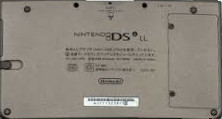
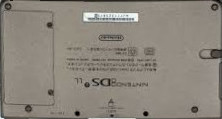
new cubed with correct orientations

diff --git a/styles/CubedStyle.css b/styles/CubedStyle.css
@@ -1,0 +1,119 @@
+.center{
+        top: 50%;
+        left: 50%;
+        transform: translate(-50%, -50%);
+}
+
+.threeD{
+        margin-top: 100px;
+        margin-left: 100px;
+        transform-style: preserve-3d;
+        transform: perspective(100cm);
+}
+
+.threeD div{
+        transform-style: preserve-3d;
+        background-image: url("../assets/images/debug.png");
+        background-size: 100%;
+}
+
+/*front*/
+.cubed{
+        background-size: 100% 100%;
+        height:var(--height) !important;
+        width: var(--width) !important;
+        background-image: var(--img);
+        background-position: top left;
+        background-color: var(--color);
+        transform-style: preserve-3d;
+        transform: var(--startTransform) rotateX(180deg) var(--baseTransform) var(--extraTransform) !important;
+        /*(in)SANE DEFAULTS*/
+        --width: 100px;
+        --height: 100px;
+        --depth: 100px;
+        --img: none;
+        --color: #ffffff;
+        --flipY: 0deg;
+        --extraTransform: ;
+        --baseTransform: ;
+        /*
+        DEBUG
+        */
+        /*
+        position: absolute;
+        top: 50%;
+        left: 50%;
+        --startTransform: perspective(100cm) rotate3D(1, 0, 1, 45deg);
+        animation-name: debug;
+        animation-iteration-count: infinite;
+        animation-duration: 4s;
+        animation-timing-function: linear;
+        */
+}
+
+
+/* top */
+
+/* bottom */
+.cubed > div:nth-child(1){
+        position: absolute;
+        top: 0px;
+        left: 0px;
+        width: var(--width);
+        height: var(--depth);
+        --baseTransform: rotateX(-90deg) rotate(180deg) translateZ(var(--height)) translateY(calc(-1 * var(--depth)));
+        transform-origin: 50% 0% 0;
+}
+
+.cubed > div:nth-child(2){
+        position: absolute;
+        top: 0px;
+        left: 0px;
+        width: var(--width);
+        height: var(--depth);
+        --baseTransform: rotateX(90deg) translateY(calc(-1 * var(--depth)));
+        transform-origin: 50% 0% 0;
+}
+
+/* right */
+.cubed > div:nth-child(3){
+        position: absolute;
+        top: 0px;
+        left: 0px;
+        width: var(--height); 
+        height: var(--depth);
+        --baseTransform: rotateX(-90deg) rotateY(90deg) translateZ(var(--width)) rotate(180deg) translateY(-100%);
+        transform-origin: 0% 0% 0;
+}
+
+/* left */
+.cubed > div:nth-child(4){
+        position: absolute;
+        top: 0px;
+        left: 0px;
+        width: var(--height); 
+        height: var(--depth);
+        --baseTransform: rotateX(-90deg) rotateY(90deg) rotate(180deg) translateY(-100%);
+        transform-origin: 0% 0% 0;
+}
+
+/*back*/
+.cubed > div:nth-child(5){
+        position: absolute;
+        top: 0px;
+        left: 0px;
+        height:var(--height);
+        width: var(--width);
+        --baseTransform: rotateX(180deg) translateZ(calc(var(--depth)));
+}
+
+.cubed > div{
+        transform: var(--baseTransform) var(--extraTransform);
+        transform-style: preserve-3d;
+        background-image: var(--img);
+        background-color: var(--color);
+        background-size: 100% 100%;
+}
+
+
+

diff --git a/navigation/gameStyle.css b/navigation/gameStyle.css
@@ -9,15 +9,15 @@ a.gameTainer{
   left:50%;
 
   .gaming{
-    --cWidth:48px;
-    --cHeight:27px;
-    --cDepth:4px;
+    --width:48px;
+    --height:27px;
+    --depth:4px;
     --color:gray;
     position:absolute;
     left:-70px;
     top:-15px;
     background-color:gray;
-    transform: rotateX(70deg);
+    --startTransform: rotateX(70deg);
     background-image:url("../assets/images/ds-casebottom.jpg");
     background-size:100% 100%;
     .bottomback{
@@ -41,16 +41,26 @@ a.gameTainer{
       background-size:100% 100%;
     }
 
+    .screenRotator{
+      transform: rotateX(var(--opening));
+      top: 0;
+      left: 0;
+      position: absolute;
+      
+    }
+
     .screenPart{
+      top: 0px;
+      left:50%;
       background-color:green;
       background-image:url("../assets/images/ds-top.png");
       background-size:100% 100%;
-      --cWidth:48px;
-      --cHeight:27px;
-      --cDepth:4px;
+      --startTransform: ;
+      --width:48px;
+      --height:27px;
+      --depth
+:4px;
       --color:gray;
-      transform: rotateX(var(--opening));
-      transform-origin: 50% 0%;
       .topback{
         background-image:url("../assets/images/ds-topback.jpg");
         background-size:100% 100%;

diff --git a/styles/ThreeDStyle.css b/styles/ThreeDStyle.css
@@ -1,22 +1,3 @@
-.center{
-        top: 50%;
-        left: 50%;
-        transform: translate(-50%, -50%);
-}
-
-.threeD{
-        margin-top: 100px;
-        margin-left: 100px;
-        transform-style: preserve-3d;
-        transform: perspective(100cm);
-}
-
-.threeD div{
-        transform-style: preserve-3d;
-        background-image: url("../assets/images/debug.png");
-        background-size: 100%;
-}
-
 /*front*/
 .cubed{
         background-size: 100% 100%;
@@ -26,6 +7,7 @@
         background-position: top left;
         background-color: var(--color);
         transform-style: preserve-3d;
+        transform:rotateX(180deg);
         /*(in)SANE DEFAULTS*/
         --cWidth: 100px;
         --cHeight: 100px;

diff --git a/navigation/compStyle.css b/navigation/compStyle.css
@@ -23,20 +23,20 @@
         height: var(--compHeight) !important;
 
   .standpart{
-    --cHeight:60px;
-    --cWidth:60px;
-    --cDepth:10px;
+    --height:60px;
+    --width:60px;
+    --depth:10px;
     --color:#d5d4c0;
     left: 50%;
     top: 50%;
     position: absolute;
-    transform: translate(-50%, -50%);
+    --startTransform: translate(-50%, -50%);
     
 
     .standbottom{
-      --cHeight:80px;
-      --cWidth:80px;
-      --cDepth:10px;
+      --height:80px;
+      --width:80px;
+      --depth:10px;
       --img:radial-gradient(gray, lightgray);
       left: 50%;
       top: 50%;

diff --git a/navigation/src/gaming.php b/navigation/src/gaming.php
@@ -15,21 +15,23 @@
                 </div>
                 <!-- back-->
                 <div class="bottomPart">
-                  <div class="screenPart cubed">
-                    <!-- bottom -->
-                    <div class="topback">
-                    </div>
-                    <!-- front -->
-                    <div class="topfront">
-                    </div>
-                    <!-- left -->
-                    <div class="topright">
-                    </div>
-                    <!-- right-->
-                    <div class="topleft">
-                    </div>
-                    <!-- back-->
-                    <div class="caseTop">
+                  <div class="screenRotator">
+                    <div class="screenPart cubed">
+                      <!-- bottom -->
+                      <div class="topback">
+                      </div>
+                      <!-- front -->
+                      <div class="topfront">
+                      </div>
+                      <!-- left -->
+                      <div class="topright">
+                      </div>
+                      <!-- right-->
+                      <div class="topleft">
+                      </div>
+                      <!-- back-->
+                      <div class="caseTop">
+                      </div>
                     </div>
                   </div>
                 </div>

diff --git a/experiments/threeD.php b/experiments/threeD.php
@@ -5,21 +5,13 @@
         <meta charset="UTF-8">
         <title>_PageTitle_</title>
         <style>
-                <?php include "../styles/ThreeDStyle.php" ?>
-                .masked {
-                        mask: linear-gradient(rgba(0, 0, 0, 0), black) 0 0/10px 20px;
-                }
+                <?php include "../styles/CubedStyle.css" ?>
         </style>
 </head>
 
 <body>
         <div class="debug">
-                <div class="octed" style="--cWidth:80px;--cHeight:80px;--cDepth:100px;--img:url('../assets/images/debug.png');">
-                        <div></div>
-                        <div></div>
-                        <div></div>
-                        <div></div>
-                        <div></div>
+                <div class="cubed" style="--width:80px;--height:80px;--depth:100px;--img:url('../assets/images/debug.png');">
                         <div></div>
                         <div></div>
                         <div></div>

diff --git a/navigation/index.php b/navigation/index.php
@@ -10,7 +10,7 @@
     <link rel="stylesheet" href="gameStyle.css">
     <link rel="stylesheet" href="compStyle.css">
     <link rel="stylesheet" href="skyStyle.css">
-    <link rel="stylesheet" href="../styles/ThreeDStyle.css">
+    <link rel="stylesheet" href="../styles/CubedStyle.css">
     <link rel="stylesheet" href="../assets/cubestyle.css">
     <style>
     :root {
